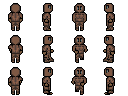
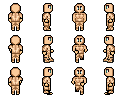
UI Improvements (CharCreation, Class Selection)
Fix Y possition in class selection.

Some new body images (shades)

"Back" button in class selection brings back to outfit customization.
"Back" button in outfit customization has been added and brings back to title screen.

diff --git a/src/main/UI.java b/src/main/UI.java
@@ -80,9 +80,9 @@ public class UI {
         if(titleScreenState == 0) {
             drawGameTitleScreen(gp.tileSize*3, gp.tileSize*11);
         } else if(titleScreenState == 1) {
-            drawCharacterCreationScreen(gp.tileSize*3, gp.tileSize*4, gp.tileSize*2);
+            drawCharacterCreationScreen(gp.tileSize*2, gp.tileSize*3, gp.tileSize*2);
         } else if(titleScreenState == 2) {
-            drawClassSelectionScreen(gp.tileSize*3, gp.tileSize*3);
+            drawClassSelectionScreen(gp.tileSize*3, gp.tileSize*6);
         }
     }
 
@@ -245,15 +245,22 @@ public class UI {
 
         int rectHeight = 70;
         int rectWidth = 170;
-        if(commandNum > gp.charCreator.amountOfBodyParts) {
+        if(commandNum == gp.charCreator.amountOfBodyParts + 1) { // Confirm
             // "Confirm" is selected
-            drawRoundBorderedRect("#797a7a", "#ffffff", gp.screenWidth/2 - rectWidth/2, gp.screenHeight - (int)(rectHeight*1.6), rectWidth, rectHeight);
+            drawRoundBorderedRect("#797a7a", "#ffffff", gp.screenWidth/2 - rectWidth/2, gp.screenHeight - (int)(rectHeight*3), rectWidth, rectHeight);
         } else { // Confirm is not selected
-            drawRoundBorderedRect("#000000", "#ffffff", gp.screenWidth/2 - rectWidth/2, gp.screenHeight - (int)(rectHeight*1.6), rectWidth, rectHeight);
+            drawRoundBorderedRect("#000000", "#ffffff", gp.screenWidth/2 - rectWidth/2, gp.screenHeight - (int)(rectHeight*3), rectWidth, rectHeight);
+        }
+        if(commandNum == gp.charCreator.amountOfBodyParts + 2) { // Back
+            // "Back" is selected
+            drawRoundBorderedRect("#797a7a", "#ffffff", gp.screenWidth/2 - rectWidth/2, gp.screenHeight - (int)(rectHeight*1.9), rectWidth, rectHeight);
+        } else { // Back is not selected
+            drawRoundBorderedRect("#000000", "#ffffff", gp.screenWidth/2 - rectWidth/2, gp.screenHeight - (int)(rectHeight*1.9), rectWidth, rectHeight);
         }
 
-        // Confirm "Button"
-        g2.drawString("Confirm", getXforCenteredText("Confirm"), gp.screenHeight - gp.tileSize);
+        // Confirm && Back "Buttons"
+        g2.drawString("Confirm", getXforCenteredText("Confirm"), gp.screenHeight - (int)(gp.tileSize*2.6));
+        g2.drawString("Back", getXforCenteredText("Back"), gp.screenHeight - (int)(gp.tileSize*1.3));
 
         // Setup of outfits etc.
         g2.setFont(g2.getFont().deriveFont(32F));
@@ -277,8 +284,7 @@ public class UI {
         OptionsY += constDistanceBodyParts;
         g2.drawString(text, x, OptionsY);
 
-        gp.charCreator.drawCurrentOutfitElements(g2);
-
+        gp.charCreator.drawCurrentOutfitElements(g2, -gp.tileSize*1);
         g2.drawImage(gp.charCreator.playerSpritesheetSingleFrame, gp.screenWidth-gp.tileSize*6, gp.tileSize * 7, null);
     }
 

diff --git a/src/main/KeyHandler.java b/src/main/KeyHandler.java
@@ -56,7 +56,7 @@ public class KeyHandler implements KeyListener {
                 }
                 if (code == KeyEvent.VK_S || code == KeyEvent.VK_DOWN) {
                     gp.ui.commandNum++;
-                    if(gp.ui.commandNum > gp.charCreator.amountOfBodyParts + 1 /* body parts + confirm <- amount of options */) {
+                    if(gp.ui.commandNum > gp.charCreator.amountOfBodyParts + 2 /* body parts + confirm <- amount of options */) {
                         gp.ui.commandNum = 0;
                     }
                 }
@@ -134,8 +134,12 @@ public class KeyHandler implements KeyListener {
                 }
                 if (code == KeyEvent.VK_ENTER) {
                     if(gp.ui.commandNum == gp.charCreator.amountOfBodyParts + 1) {
-                        // its confirm
+                        // its confirm -> going to class selection
                         gp.ui.titleScreenState = 2;
+                        gp.ui.commandNum = 0;
+                    } else if(gp.ui.commandNum == gp.charCreator.amountOfBodyParts + 2) {
+                        // its back to title screen
+                        gp.ui.titleScreenState = 0;
                         gp.ui.commandNum = 0;
                     }
                 }
@@ -169,7 +173,7 @@ public class KeyHandler implements KeyListener {
                         gp.gameState = gp.playState;
                         gp.playMusic(0);
                     } else if(gp.ui.commandNum == 3) {
-                        gp.ui.titleScreenState = 0;
+                        gp.ui.titleScreenState = 1;
                         gp.ui.commandNum = 0;
                     }
                 }

diff --git a/src/main/CharacterCreation.java b/src/main/CharacterCreation.java
@@ -148,11 +148,11 @@ public class CharacterCreation {
         gp.player.spriteSheet = combinedImage;
     }
 
-    public void drawCurrentOutfitElements(Graphics2D g2) {
-        g2.drawImage(singleFrameBody, gp.ui.getXforCenteredImage(singleFrameBody), gp.tileSize*4, null);
-        g2.drawImage(singleFrameHair, gp.ui.getXforCenteredImage(singleFrameHair), gp.tileSize*6 + 25 /* offset for hair display */, null);
-        g2.drawImage(singleFrameCloth, gp.ui.getXforCenteredImage(singleFrameCloth), gp.tileSize*8, null);
-        g2.drawImage(singleFrameLegs, gp.ui.getXforCenteredImage(singleFrameLegs), gp.tileSize*10, null);
+    public void drawCurrentOutfitElements(Graphics2D g2, int offsetY) {
+        g2.drawImage(singleFrameBody, gp.ui.getXforCenteredImage(singleFrameBody), gp.tileSize*4 + offsetY, null);
+        g2.drawImage(singleFrameHair, gp.ui.getXforCenteredImage(singleFrameHair), gp.tileSize*6 + offsetY + 25 /* offset for hair display */, null);
+        g2.drawImage(singleFrameCloth, gp.ui.getXforCenteredImage(singleFrameCloth), gp.tileSize*8 + offsetY, null);
+        g2.drawImage(singleFrameLegs, gp.ui.getXforCenteredImage(singleFrameLegs), gp.tileSize*10 + offsetY, null);
     }
 
     public void countBodyParts(String folderPath, String[] keywords) {
